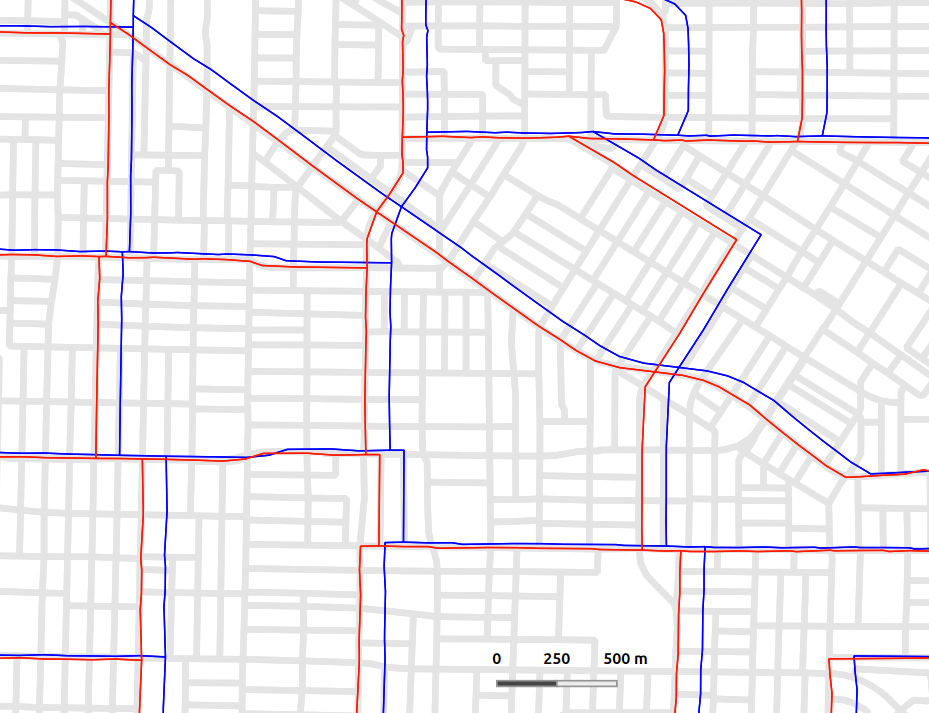
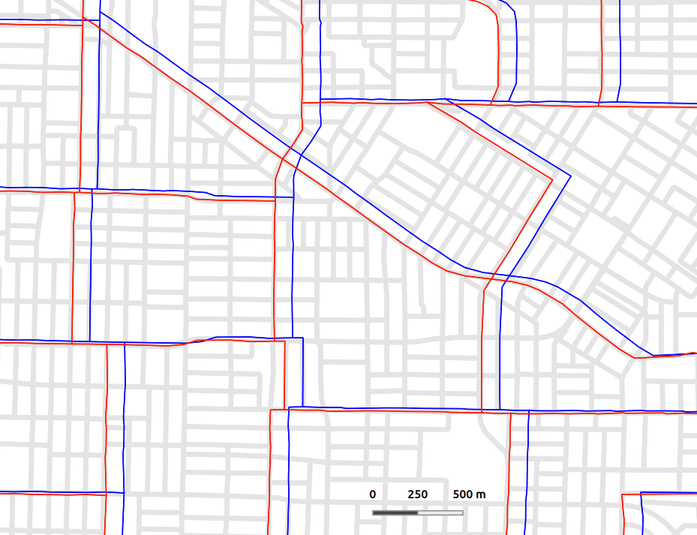
update readme again

diff --git a/README.md b/README.md
@@ -12,4 +12,4 @@ Corrected data are included in the **conflated_boundaries** as well as being upl
 
 The image below is sample of the output of corrected census tracts for 1996. The blue lines are the original boundaries while the red are the conflated boundaries, which align much closer to the underlying 2016 census blocks.
 
-![](example.png =420x)
+![](example.png)
